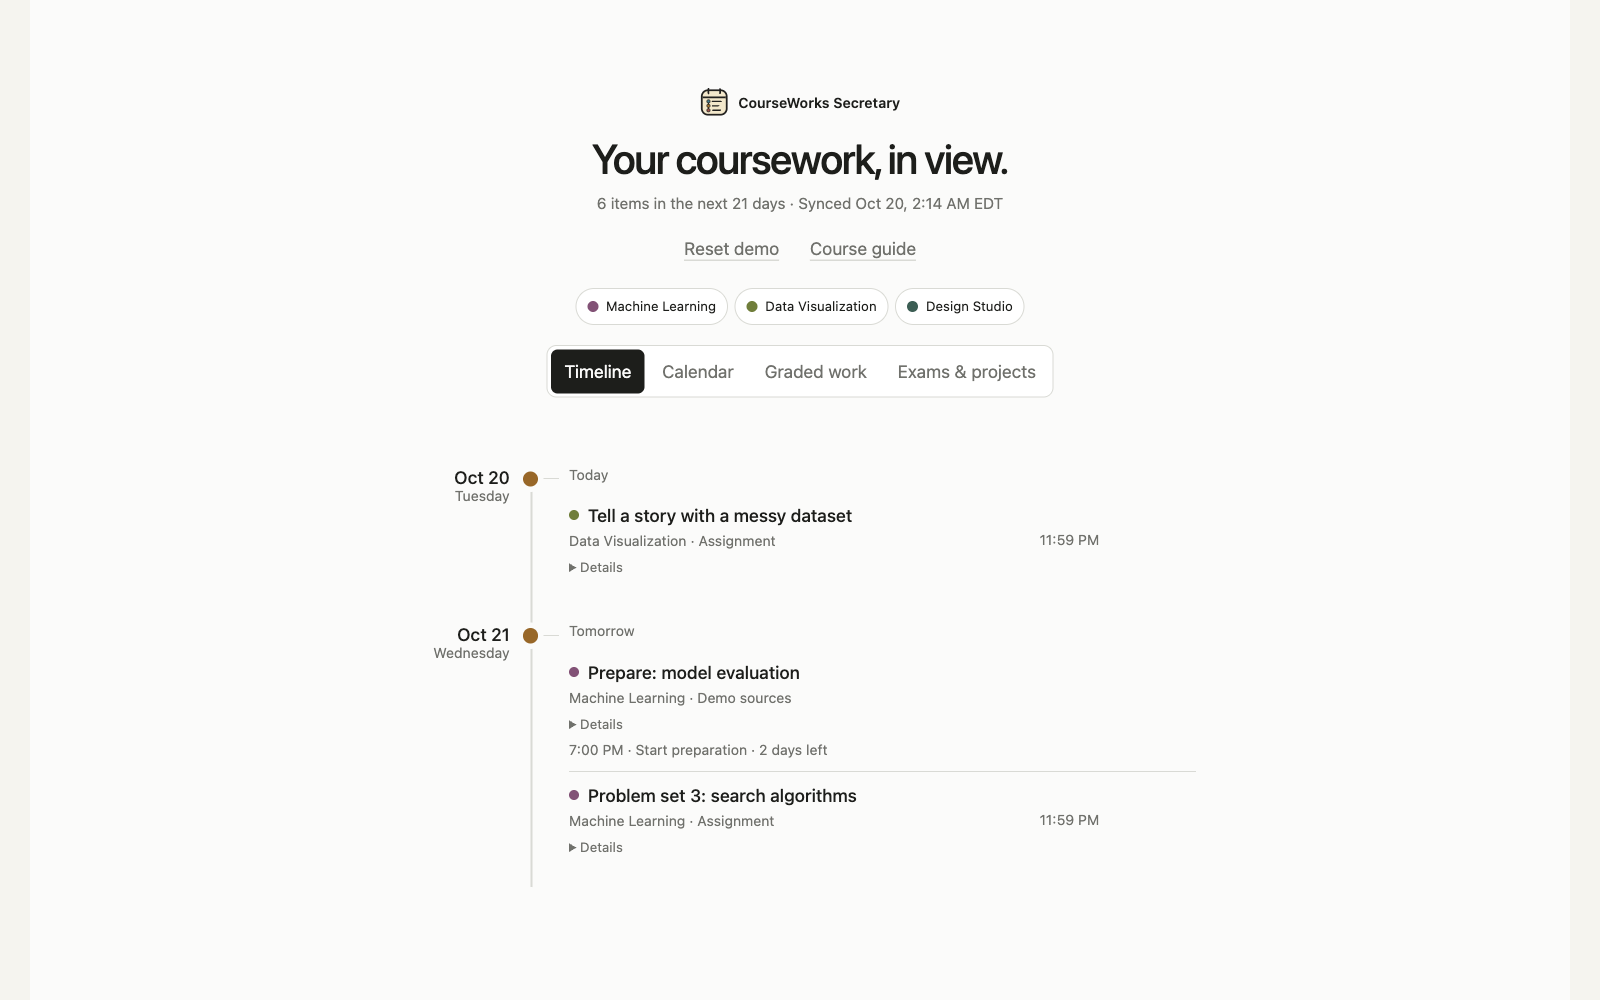
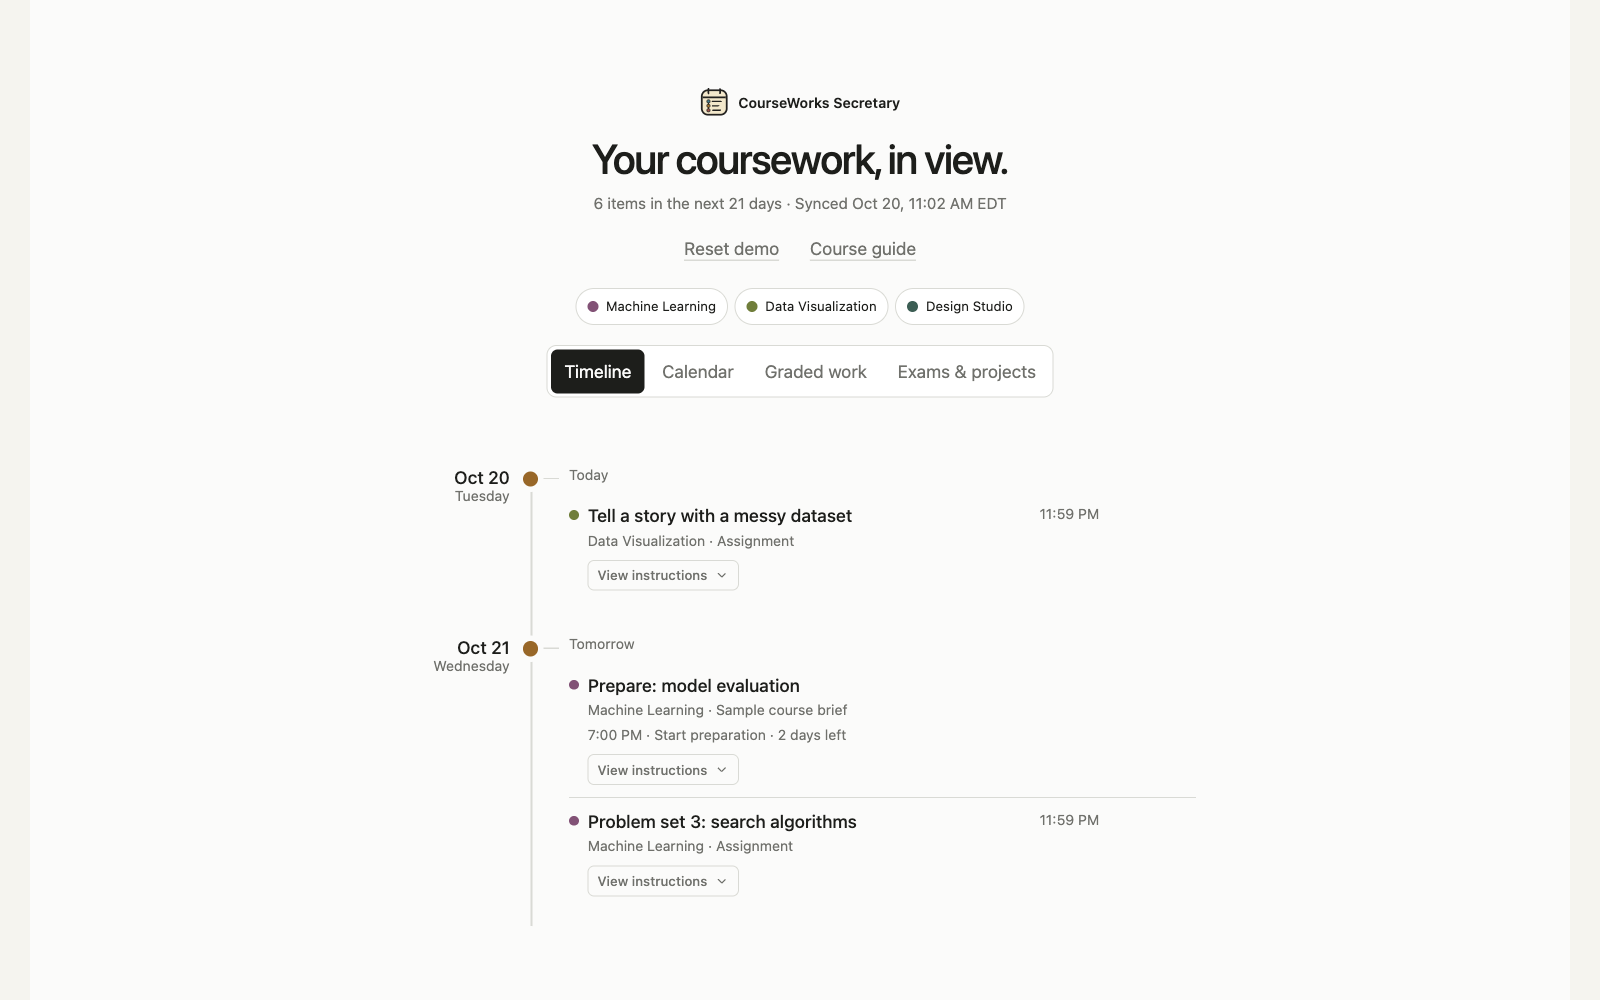
Refine task instructions with a clear disclosure control and panel

diff --git a/tests/test_task_details.js b/tests/test_task_details.js
@@ -1,0 +1,52 @@
+const test = require('node:test');
+const assert = require('node:assert/strict');
+const { createTaskDetails } = require('../ui/task-details.js');
+
+function element(tagName) {
+  return {
+    tagName, children: [], attributes: {}, textContent: '',
+    append(...children) { this.children.push(...children); },
+    setAttribute(name, value) { this.attributes[name] = value; },
+  };
+}
+global.document = { createElement: element };
+
+function text(node) {
+  return [node.textContent, ...node.children.map(text)].join(' ');
+}
+
+test('tasks without extra information have no empty disclosure', () => {
+  assert.equal(createTaskDetails({ title: 'Homework' }), null);
+});
+
+test('instructions use a native disclosure with task context and safely rendered text', () => {
+  const instructions = '<img src=x onerror=alert(1)>\nInclude the data notes.';
+  const disclosure = createTaskDetails({ title: 'Dashboard', detail: instructions });
+  assert.equal(disclosure.tagName, 'details');
+  assert.equal(disclosure.children[0].tagName, 'summary');
+  assert.equal(disclosure.children[0].attributes['aria-label'], 'Instructions for Dashboard');
+  assert.match(text(disclosure.children[0]), /View instructions/);
+  assert.match(text(disclosure.children[0]), /Hide instructions/);
+  assert.equal(disclosure.children[1].children[0].textContent, instructions);
+  assert.equal(disclosure.children[1].children[0].innerHTML, undefined);
+});
+
+test('deadline conflicts stay prominent and show both sources in the configured timezone', () => {
+  const disclosure = createTaskDetails({
+    title: 'Project', detail: 'Submit the report.', guideTitle: 'Reviewed project title',
+    deadlineConflict: { synced: '2026-10-20T12:00:00Z', reviewed: '2026-10-21T12:00:00Z' },
+  }, 'America/Los_Angeles');
+  assert.equal(disclosure.children[0].attributes['aria-label'], 'Review deadline for Project');
+  assert.match(text(disclosure.children[0]), /Review deadline/);
+  assert.match(text(disclosure.children[1]), /Canvas lists Oct 20, 2026, 5:00 AM/);
+  assert.match(text(disclosure.children[1]), /reviewed guide lists Oct 21, 2026, 5:00 AM/);
+  assert.match(text(disclosure.children[1]), /timeline uses the Canvas deadline/);
+  assert.match(text(disclosure.children[1]), /Reviewed project title/);
+  assert.match(text(disclosure.children[1]), /Submit the report/);
+});
+
+test('a guide title alone is labelled as a guide note', () => {
+  const disclosure = createTaskDetails({ title: 'Problem set', guideTitle: 'Weekly work' });
+  assert.equal(disclosure.children[0].attributes['aria-label'], 'Guide note for Problem set');
+  assert.match(text(disclosure.children[1]), /Reviewed guide: Weekly work/);
+});

diff --git a/ui/task-details.js b/ui/task-details.js
@@ -1,0 +1,48 @@
+function createTaskDetails(task, timeZone = 'America/New_York') {
+  if (!task.detail && !task.deadlineConflict && !task.guideTitle) return null;
+
+  const disclosure = document.createElement('details');
+  disclosure.className = task.deadlineConflict ? 'task-detail task-detail-conflict' : 'task-detail';
+  const summary = document.createElement('summary');
+  const subject = task.detail ? 'instructions' : 'guide note';
+  summary.setAttribute('aria-label', `${task.deadlineConflict ? 'Review deadline' : task.detail ? 'Instructions' : 'Guide note'} for ${task.title}`);
+
+  const closedLabel = document.createElement('span');
+  closedLabel.className = 'task-detail-label-closed';
+  closedLabel.textContent = task.deadlineConflict ? 'Review deadline' : `View ${subject}`;
+  const openLabel = document.createElement('span');
+  openLabel.className = 'task-detail-label-open';
+  openLabel.textContent = task.deadlineConflict ? 'Review deadline' : `Hide ${subject}`;
+  const chevron = document.createElement('span');
+  chevron.className = 'task-detail-chevron';
+  chevron.setAttribute('aria-hidden', 'true');
+  chevron.innerHTML = '<svg viewBox="0 0 20 20" fill="none" stroke="currentColor" stroke-width="1.6" stroke-linecap="round" stroke-linejoin="round"><path d="m5.5 7.75 4.5 4.5 4.5-4.5"/></svg>';
+  summary.append(closedLabel, openLabel, chevron);
+
+  const content = document.createElement('div');
+  content.className = 'task-detail-content';
+  if (task.deadlineConflict) {
+    const conflict = document.createElement('p');
+    conflict.className = 'deadline-notice';
+    const format = value => new Intl.DateTimeFormat('en-US', {
+      dateStyle: 'medium', timeStyle: 'short', timeZone,
+    }).format(new Date(value));
+    conflict.textContent = `Canvas lists ${format(task.deadlineConflict.synced)}; the reviewed guide lists ${format(task.deadlineConflict.reviewed)}. Check the sources. The timeline uses the Canvas deadline.`;
+    content.append(conflict);
+  }
+  if (task.guideTitle) {
+    const guideTitle = document.createElement('p');
+    guideTitle.className = 'task-detail-guide-title';
+    guideTitle.textContent = `Reviewed guide: ${task.guideTitle}`;
+    content.append(guideTitle);
+  }
+  if (task.detail) {
+    const detail = document.createElement('p');
+    detail.textContent = task.detail;
+    content.append(detail);
+  }
+  disclosure.append(summary, content);
+  return disclosure;
+}
+
+if (typeof module !== 'undefined' && module.exports) module.exports = { createTaskDetails };

diff --git a/ui/task-row.js b/ui/task-row.js
@@ -21,33 +21,6 @@ function createTask(task) {
   }
   course.textContent = metadata.join(' · ');
   copy.append(title, course);
-  if (task.detail || task.deadlineConflict || task.guideTitle) {
-    const disclosure = document.createElement('details');
-    disclosure.className = 'task-detail';
-    const summary = document.createElement('summary');
-    summary.textContent = task.deadlineConflict ? 'Check deadline' : 'Details';
-    if (task.deadlineConflict) {
-      summary.className = 'deadline-notice';
-      const conflict = document.createElement('p');
-      const format = value => new Intl.DateTimeFormat('en-US', {
-        dateStyle: 'medium', timeStyle: 'short', timeZone: timelineData?.timeZone || 'America/New_York',
-      }).format(new Date(value));
-      conflict.textContent = `Canvas lists ${format(task.deadlineConflict.synced)}; the reviewed guide lists ${format(task.deadlineConflict.reviewed)}. Check the sources. The timeline uses the Canvas deadline.`;
-      disclosure.append(summary, conflict);
-    } else disclosure.append(summary);
-    if (task.guideTitle) {
-      const guideTitle = document.createElement('p');
-      guideTitle.textContent = `Reviewed guide: ${task.guideTitle}`;
-      disclosure.append(guideTitle);
-    }
-    if (task.detail) {
-      const detail = document.createElement('p');
-      detail.textContent = task.detail;
-      disclosure.append(detail);
-    }
-    copy.append(disclosure);
-  }
-
   const time = document.createElement('time');
   time.className = 'task-time';
   time.dateTime = task.dueAt;
@@ -59,6 +32,8 @@ function createTask(task) {
   } else {
     row.append(copy, time);
   }
+  const disclosure = createTaskDetails(task, timelineData?.timeZone);
+  if (disclosure) copy.append(disclosure);
 
   const links = safeSourceRecords(task.links?.length ? task.links : (task.url ? [{ label: task.sourceLabel || 'Source', url: task.url }] : []));
   const aikenLink = createAikenTaskLink(task);

diff --git a/ui/task-details.css b/ui/task-details.css
@@ -1,0 +1,99 @@
+.task-detail {
+  margin: 9px 0 0 17px;
+}
+
+.task-detail > summary {
+  display: inline-flex;
+  align-items: center;
+  gap: 6px;
+  min-height: 28px;
+  padding: 4px 8px;
+  border: 1px solid var(--line);
+  border-radius: 6px;
+  background: transparent;
+  color: var(--muted);
+  font-size: 0.75rem;
+  font-weight: 500;
+  line-height: 1.4;
+  list-style: none;
+  cursor: pointer;
+  transition: color 140ms ease, border-color 140ms ease, background 140ms ease;
+}
+
+.task-detail > summary::-webkit-details-marker {
+  display: none;
+}
+
+.task-detail > summary::marker {
+  content: '';
+}
+
+.task-detail > summary:hover {
+  border-color: var(--accent);
+  background: color-mix(in srgb, var(--accent) 5%, transparent);
+  color: var(--text);
+}
+
+.task-detail[open] > summary {
+  background: var(--surface);
+  color: var(--text);
+}
+
+.task-detail-label-open,
+.task-detail[open] .task-detail-label-closed {
+  display: none;
+}
+
+.task-detail[open] .task-detail-label-open {
+  display: inline;
+}
+
+.task-detail-chevron {
+  display: flex;
+  width: 14px;
+  height: 14px;
+  transition: transform 140ms ease;
+}
+
+.task-detail[open] .task-detail-chevron {
+  transform: rotate(180deg);
+}
+
+.task-detail-content {
+  margin-top: 8px;
+  padding: 12px 14px;
+  border: 1px solid var(--line);
+  border-radius: 8px;
+  background: var(--surface);
+  color: var(--text);
+  font-size: 0.8125rem;
+  line-height: 1.6;
+  overflow-wrap: anywhere;
+}
+
+.task-detail-content p {
+  max-width: 65ch;
+  margin: 0;
+  white-space: pre-line;
+}
+
+.task-detail-content p + p {
+  margin-top: 10px;
+}
+
+.task-detail-content .task-detail-guide-title {
+  color: var(--muted);
+}
+
+.task-detail-conflict > summary,
+.task-detail-conflict[open] > summary,
+.task-detail-content .deadline-notice {
+  color: var(--soon);
+}
+
+@media (hover: none) {
+  .task-detail > summary {
+    min-height: 36px;
+    padding-inline: 10px;
+  }
+}

diff --git a/index.html b/index.html
@@ -8,6 +8,7 @@
     <link rel="icon" href="/favicon.svg?v=3" type="image/svg+xml">
     <link rel="stylesheet" href="/app.css">
     <link rel="stylesheet" href="/ui/timeline.css">
+    <link rel="stylesheet" href="/ui/task-details.css">
     <link rel="stylesheet" href="/ui/calendar.css">
     <link rel="stylesheet" href="/ui/course-guide.css">
     <link rel="stylesheet" href="/ui/graded-work.css">
@@ -22,6 +23,7 @@
     <script src="/aiken-actions.js" defer></script>
     <script src="/assessment-overview.js" defer></script>
     <script src="/ui/source-links.js" defer></script>
+    <script src="/ui/task-details.js" defer></script>
     <script src="/ui/task-row.js" defer></script>
     <script src="/ui/course-guide.js" defer></script>
     <script src="/ui/timeline.js" defer></script>

diff --git a/ui/timeline.css b/ui/timeline.css
@@ -200,7 +200,7 @@
 .task-row {
   display: grid;
   grid-template-columns: minmax(0, 1fr) auto auto;
-  align-items: center;
+  align-items: start;
   gap: 8px 12px;
   min-height: 48px;
   padding: 9px 0 11px;
@@ -244,7 +244,7 @@
 }
 
 .task-course {
-  margin-top: 3px;
+  margin: 3px 0 0 17px;
   line-height: 1.35;
 }
 
@@ -252,9 +252,13 @@
   white-space: nowrap;
 }
 
+.task-row > .task-time {
+  padding-top: 3px;
+}
+
 .task-copy .preparation-time {
   display: block;
-  margin-top: 5px;
+  margin: 5px 0 0 17px;
   white-space: normal;
   line-height: 1.35;
 }

diff --git a/ui/polish.css b/ui/polish.css
@@ -130,29 +130,6 @@ body[data-preview] .later-tasks { display: none; }
   line-height: 1.45;
 }
 
-.task-detail {
-  margin-top: 6px;
-  color: var(--muted);
-  font-size: 0.8rem;
-  line-height: 1.6;
-}
-
-.task-detail summary {
-  width: fit-content;
-  cursor: pointer;
-  font-size: 0.75rem;
-}
-
-.task-detail p {
-  max-width: 65ch;
-  margin: 8px 0;
-  white-space: pre-line;
-}
-
-.deadline-notice {
-  color: var(--soon);
-}
-
 .guide-source-section {
   padding: 16px 0;
   border-top: 1px solid var(--line);

diff --git a/docs/release-checks.md b/docs/release-checks.md
@@ -6,8 +6,9 @@ The release organizes accessible coursework and a private reviewed guide through
 
 - A new Python 3.12 environment installed the public project and its test dependencies successfully. Package discovery explicitly includes application packages and excludes interface/data directories.
 - All 44 public Python tests passed in the fresh environment. They cover task identity, submission state, preparation, source handling, host/timezone configuration, safe pagination, private guide validation, demo isolation, course essentials beyond deadlines, protected routes, and static assets.
-- All 23 Node checks passed. They cover filtering, calendar calculations, graded deadlines, Aiken handoffs, assessment grouping/rendering, and recoverable API failures.
+- All 27 Node checks passed. They cover filtering, calendar calculations, graded deadlines, Aiken handoffs, assessment grouping/rendering, recoverable API failures, and safe instruction disclosures with deadline conflicts.
 - Local HTTP and browser rendering returned the synthetic timeline and all referenced assets. The browser's Exams & projects view displayed the reviewed sample assessments with source links.
+- The instructions control opens by click, closes with Space, and reopens with Enter. Its label and chevron reflect the open state, while the task deadline stays in place.
 - A focused scan of release files and 70 historical public text blobs found no matches for Canvas-token/private-key patterns or known private course/student identifiers. This is a scoped check, not a comprehensive security audit.
 - The preview is a 1600 × 1000 opaque PNG on a solid background with crop padding, below the 20 MB limit. It contains fictional coursework only.
 - The Showcase description is 398 characters, including spaces and punctuation.
